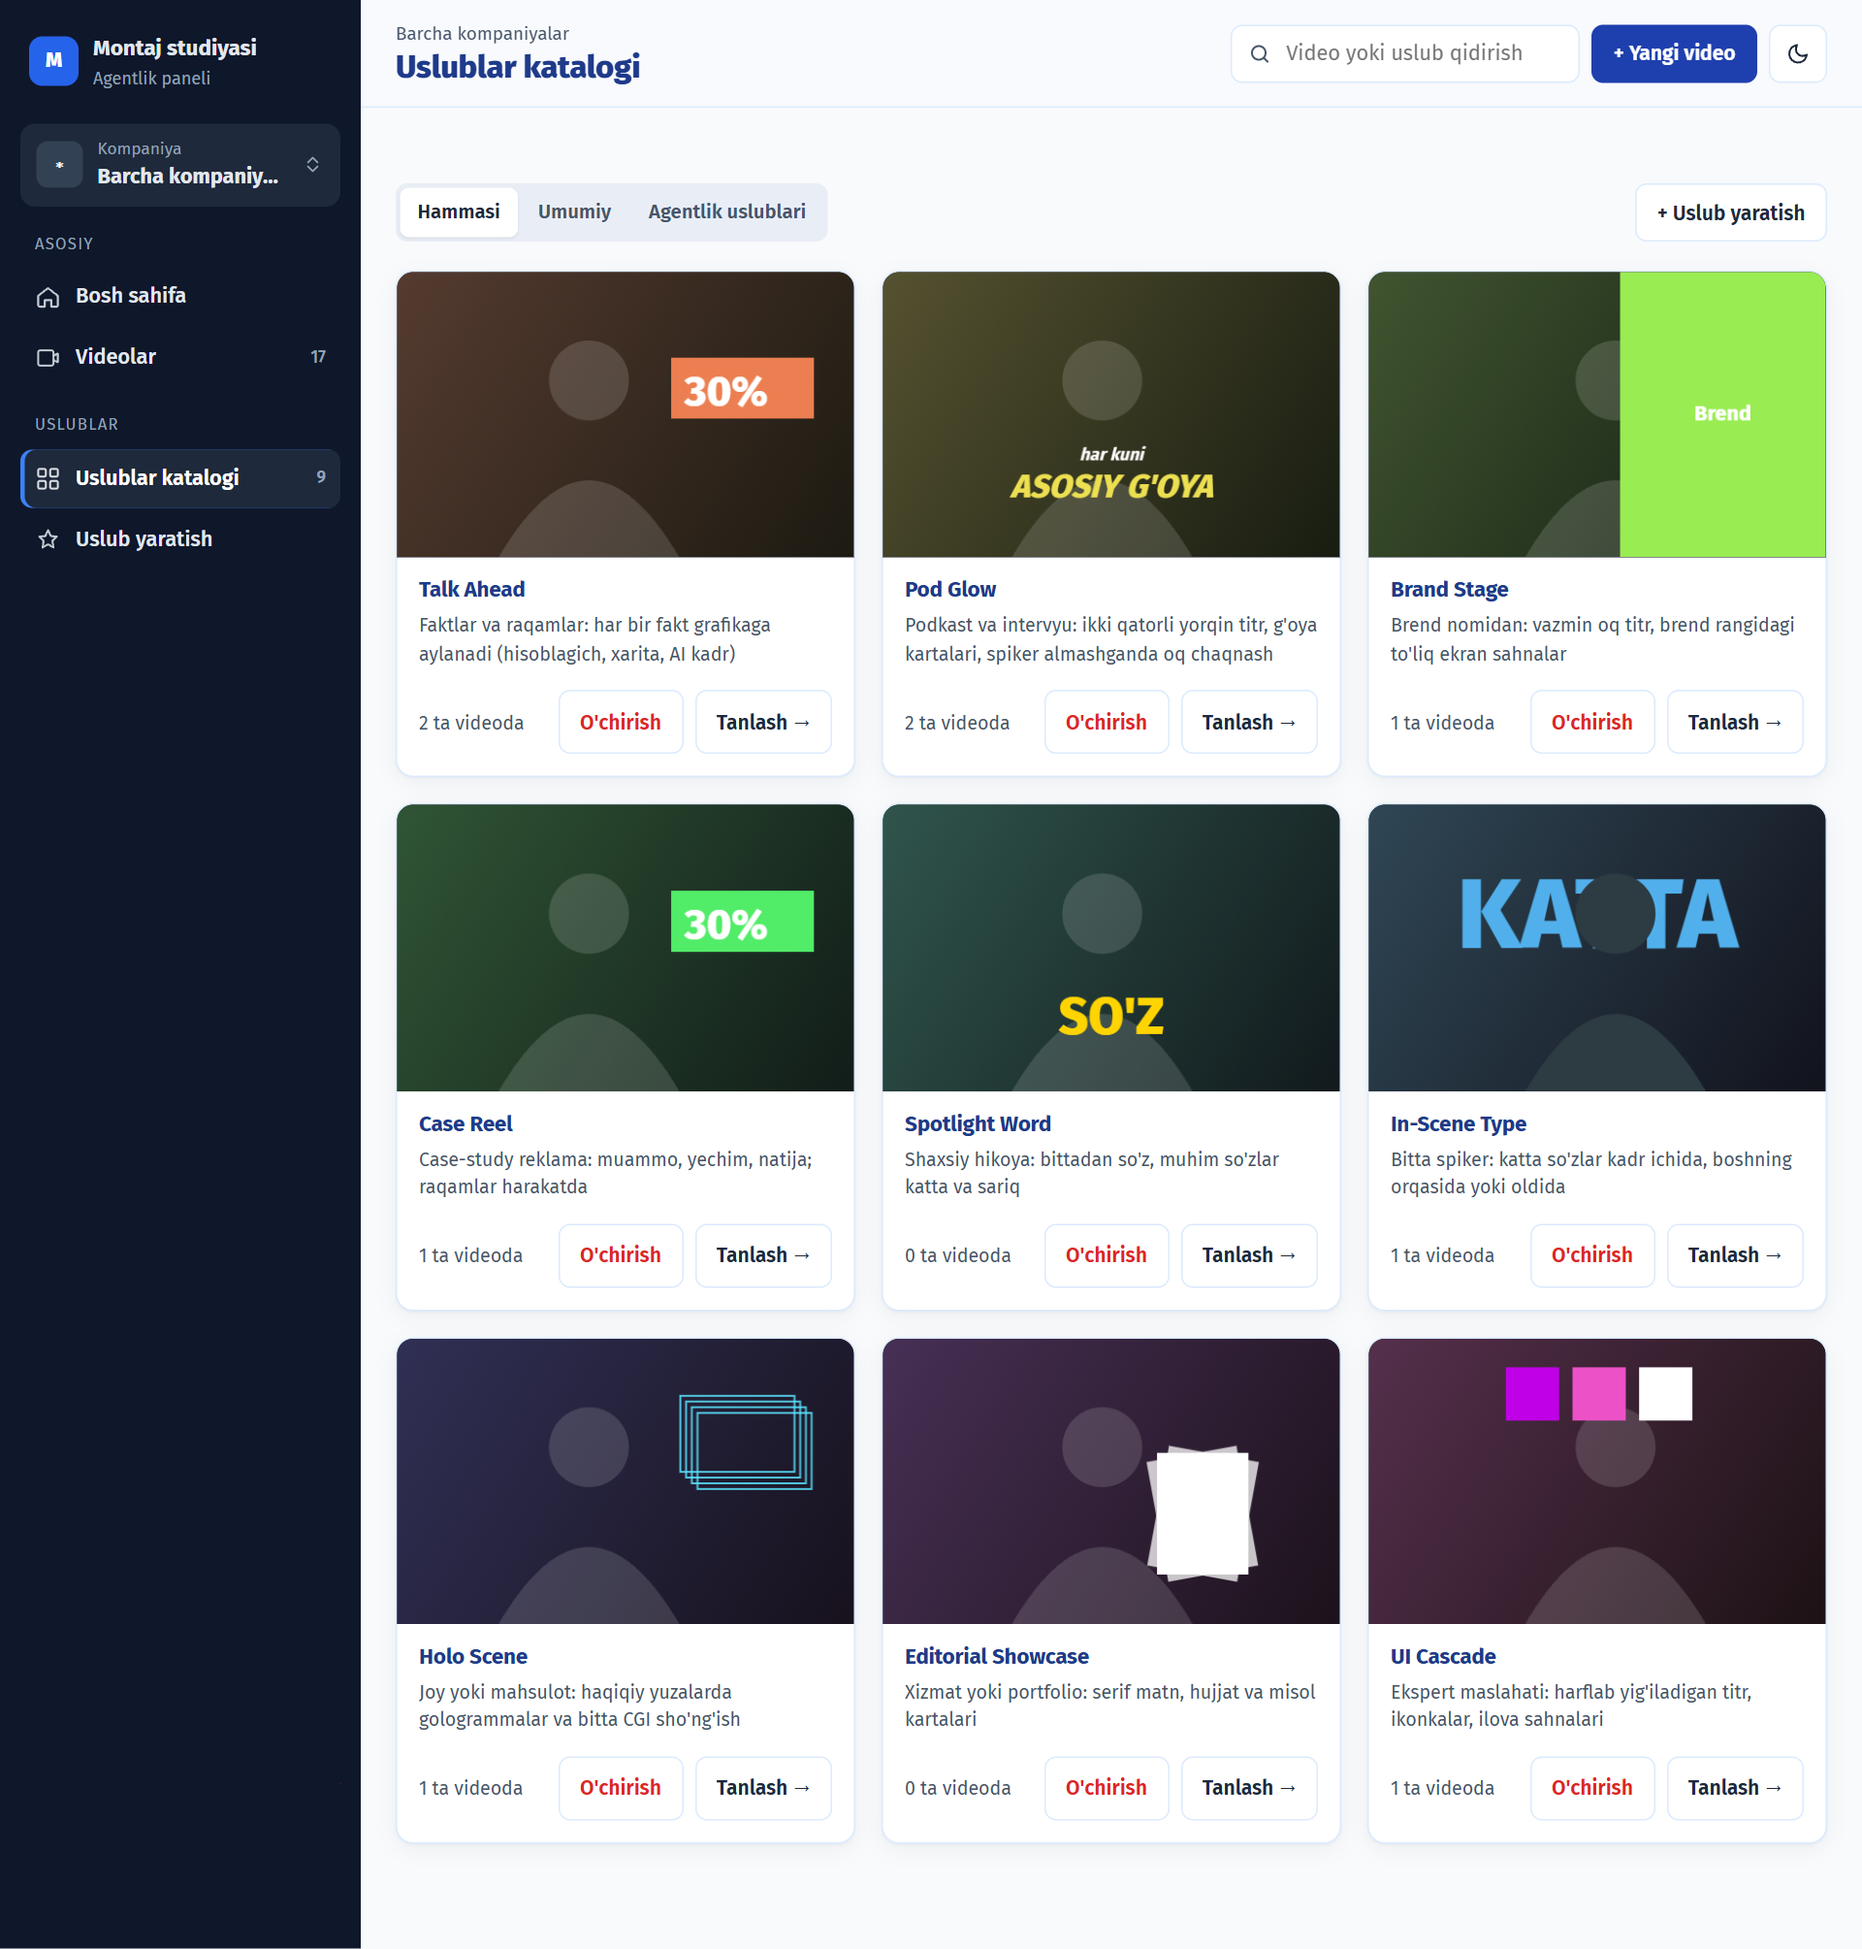
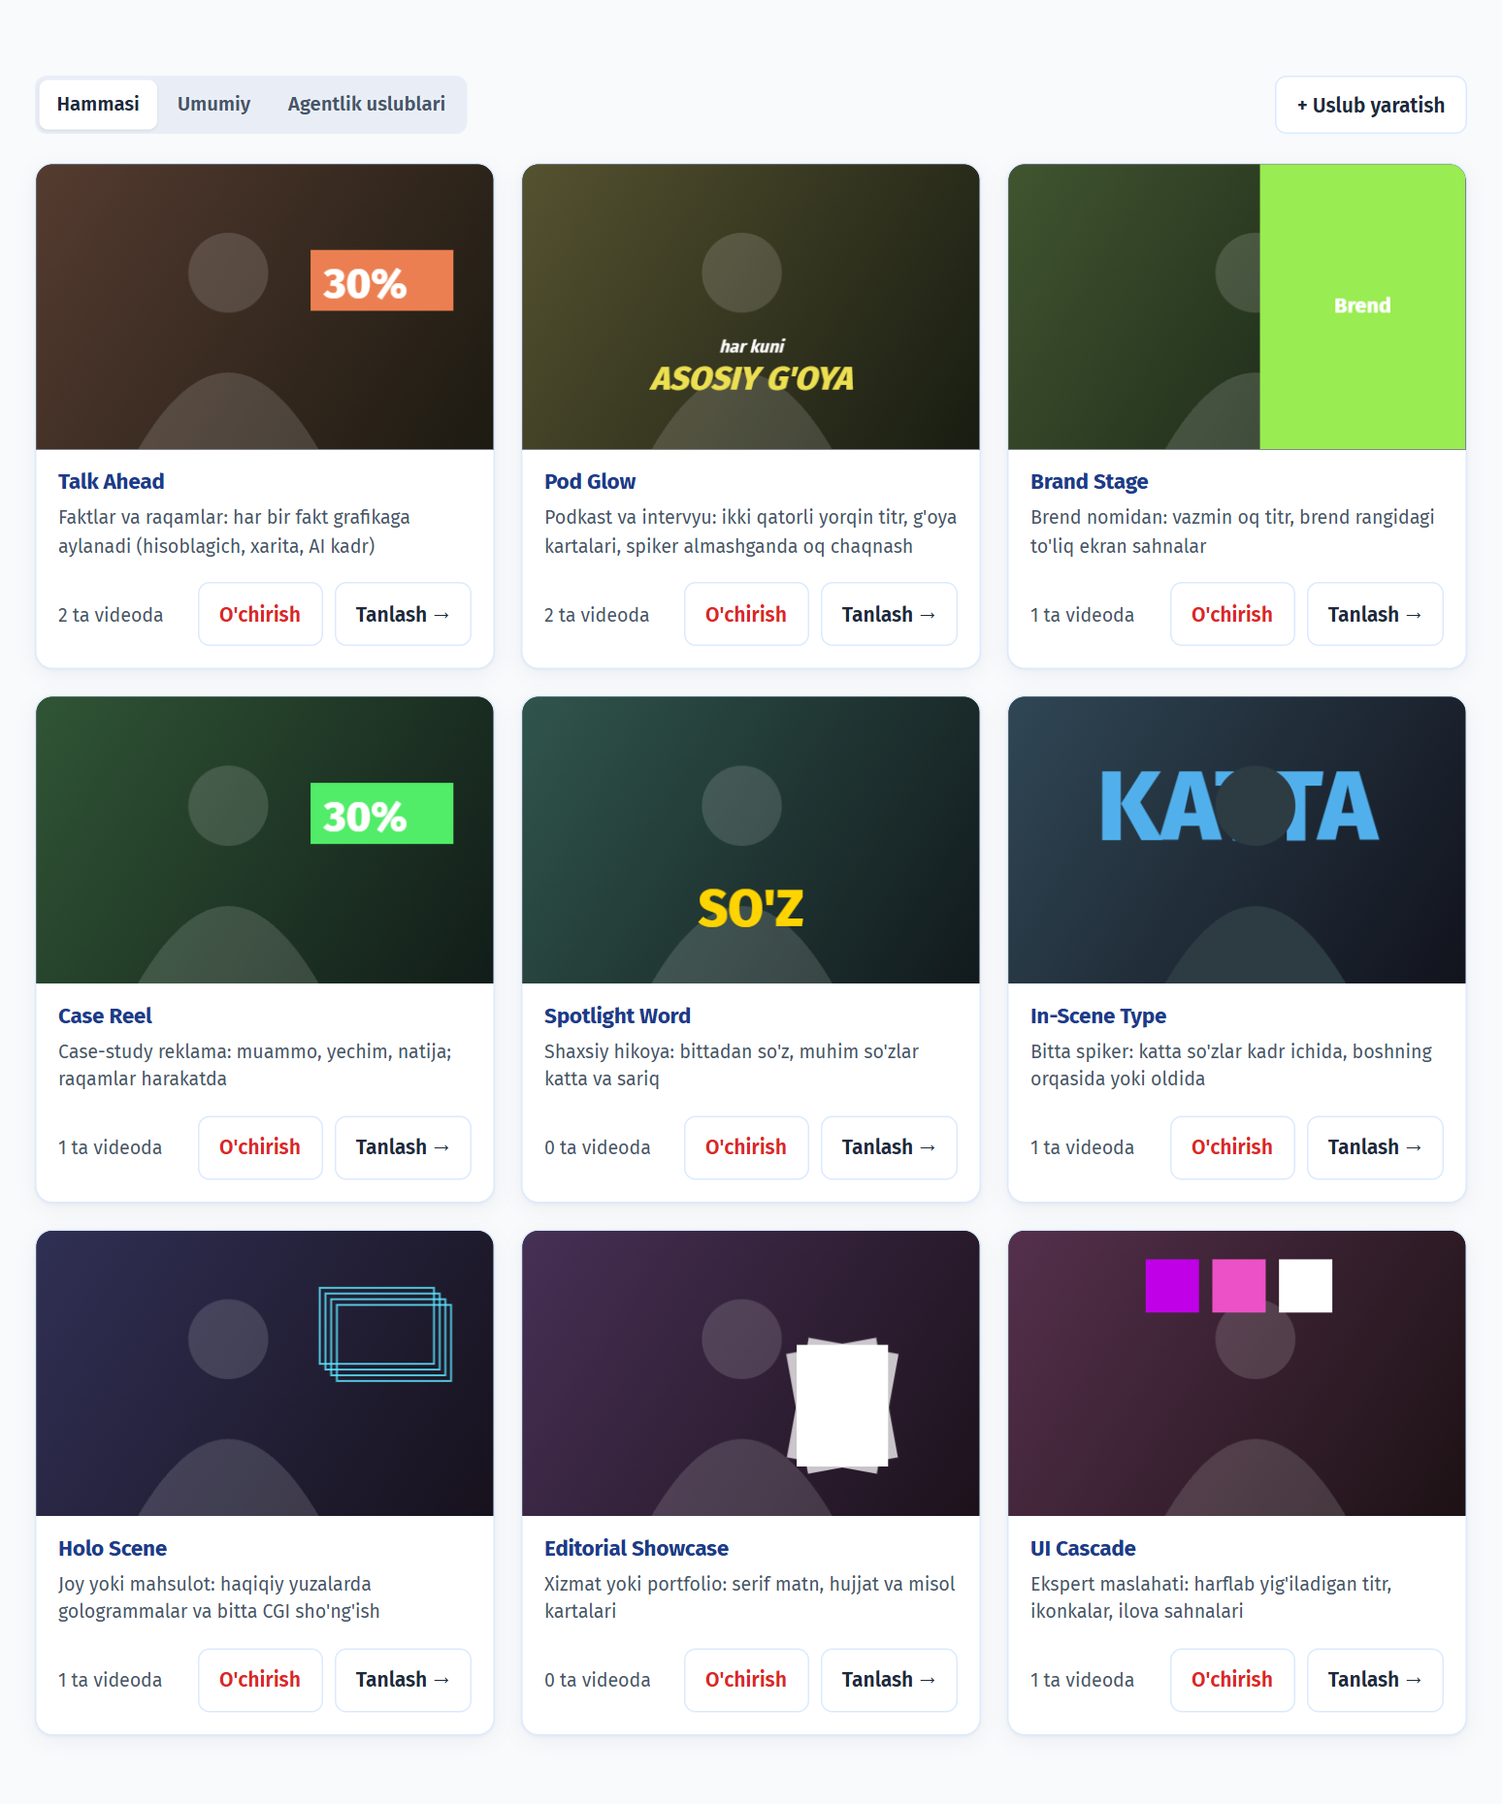
AP-1077: add a detailed visual walkthrough with readable UI close-ups

diff --git a/README.md b/README.md
@@ -12,43 +12,108 @@ Marketing agentliklari va kontent jamoalari uchun o'zbekcha AI video montaj dash
 
 ## Interfeysdan lavhalar
 
-Quyidagi skrinshotlar **2026-11-19** kuni joriy loyiha lokal ochilib, saqlangan haqiqiy ishlar bilan olingan. Yon paneldagi akkaunt balansi berkitilgan. Ko'rsatilgan natijalar shu ishlarga tegishli; yangi clone o'z ma'lumotlari bilan boshlanadi.
+**Material → format va uslub → limit → brief → montaj → tekshiruv → tuzatish.** Quyida har bir bosqichning yaqin ko'rinishi va undagi boshqaruvlar tushuntirilgan.
 
-<details>
-<summary><strong>1. Video topshirish — materiallar, format va uslub</strong></summary>
+[Materiallar](#1-materiallarni-topshirish) · [Format](#2-format-va-avtomatik-uslub) · [Byudjet](#3-montaj-byudjeti) · [Brief](#4-istaklar-va-referenslar) · [Katalog](#5-uslublar-katalogi) · [Natija](#6-tayyor-video-va-versiyalar) · [Hisobot](#7-vaqt-belgilari-bilan-montaj-hisoboti) · [QA](#8-sifat-tekshiruvi) · [Feedback](#9-vaqtga-boglangan-tuzatish)
 
-Raw videolar, rasm, logo va qo'shimcha materiallarni bir joydan yuklang. To'rtta formatdan birini tanlang; o'ngdagi xulosa tanlangan sozlamalar va Higgsfield limitini ko'rsatadi.
+Rasmlar **2026-11-19** kuni lokal interfeysdan olingan. Natija va hisobotlar saqlangan haqiqiy ishga tegishli. `$5` limiti, brief va feedback matnlari ko'rsatma uchun kiritilgan, yuborilmagan. Bosh sahifadagi akkaunt balansi berkitilgan. Rasmlarni bosib, to'liq o'lchamda ochish mumkin.
 
-![Yangi video formasi: yuklash maydoni, 9:16, 4:5, 1:1 va 16:9 formatlari, avtomatik uslub va xulosa](docs/images/new-edit.png)
+### 1. Materiallarni topshirish
 
-</details>
+**“Yangi video”** sahifasida asosiy video va montajga qo'shiladigan materiallar alohida maydonlarga beriladi.
 
-<details>
-<summary><strong>2. Uslublar katalogi — 9 xil vizual yo'nalish</strong></summary>
+![Kompaniya tanlash, bir nechta raw video yuklash, qo'shimcha rasm yoki logo biriktirish va ish nomini yozish maydonlari](docs/images/new-edit.png)
 
-Talk Ahead, Pod Glow, UI Cascade va boshqa uslublarning ko'rinishi hamda qo'llanishini solishtiring. Katalogdan uslub tanlash yoki referenslardan yangi uslub yaratish mumkin.
+- **Kompaniya:** ishlarni mijoz yoki jamoa bo'yicha guruhlash; “Kompaniyasiz” ham mumkin.
+- **Video:** bitta yoki bir nechta raw faylni tashlash yoxud bosib tanlash. Qisqa tomon kamida 720 px bo'lishi kerak.
+- **Qo'shimcha materiallar:** logo, mahsulot rasmi, B-roll va boshqa video. Fayl tanlangach, unga izoh va majburiy foydalanish belgisi qo'yish mumkin.
+- **Nomi:** ro'yxatda tez topish uchun tushunarli ish nomi.
 
-![To'qqizta uslub kartasi: Talk Ahead, Pod Glow, Brand Stage, Case Reel, Spotlight Word, In-Scene Type, Holo Scene, Editorial Showcase va UI Cascade](docs/images/style-catalogue.png)
+### 2. Format va avtomatik uslub
 
-</details>
+Format kartasi chiqadigan videoning nisbatini ham, o'lchamini ham belgilaydi. Rasmda **9:16 — 1080×1920** tanlangan.
 
-<details>
-<summary><strong>3. Tayyor natija — video, versiyalar va vaqtli hisobot</strong></summary>
+![To'rtta format kartasi va avtomatik uslub tanlovi yaqindan: 9:16, 4:5, 1:1 va 16:9](docs/images/format-style.png)
 
-Haqiqiy **UI Cascade** montajidan kadr: **v1 → v2 → v3** versiyalari, yuklab olish tugmasi va vaqt belgilari bilan “Nima qilindi” ro'yxati. Hisobotdagi vaqtni bosib, videoning o'sha joyiga o'tish mumkin.
+**Avtomatik** tanlovda agent raw video, referens va istaklarga qarab uslub tanlaydi. Aniq vizual yo'nalish kerak bo'lsa, **“Uslubni o'zgartirish”** orqali katalogdagi variantni belgilang. Formatlarning qo'llanishi har bir kartaning o'zida yozilgan.
 
-![Tayyor vertikal video, uchta versiya va montajdagi o'zgarishlarning vaqtli hisoboti](docs/images/edit-result.png)
+### 3. Montaj byudjeti
 
-</details>
+**Minimal**, **Standart** yoki **Boy** darajasi montaj imkoniyatlari va Higgsfield kredit chegarasini birga belgilaydi. Mustaqil dollar limiti ham berish mumkin.
 
-<details>
-<summary><strong>4. Sifat tekshiruvi — natijaning texnik hisoboti</strong></summary>
+![Montaj darajalari va qo'lda kiritilgan 5 dollar: interfeys 90 kredit hisoblab, daraja tanlanmaganini ko'rsatmoqda](docs/images/budget-limit.png)
 
-Shu ishning joriy versiyasi **17/17** tekshiruvdan o'tgan. Panel format, ovoz, qora yoki qotgan kadrlar, titr sinxroni, matn joylashuvi va dizayn izchilligini ko'rsatadi.
+Rasmdagi misol: **`$5 × 18 = 90 kredit`**. Dollar yozilganda daraja tanlovi tozalanadi; “Boy” darajasining 60 kredit chegarasi bu limitni kesmaydi. Pastdagi xabar hisoblangan limitni darhol ko'rsatadi. **Claude xarajati alohida.** Hisoblash qoidalari: [Format va xarajat](#format-va-xarajat).
 
-<img src="docs/images/quality-checks.png" alt="Tekshiruv paneli: 17 ta tekshiruv o'tgan, jumladan 1080×1920, 30 fps, −14.1 LUFS va titr sinxroni" width="640">
+### 4. Istaklar va referenslar
 
-</details>
+Brief'da natijaning ko'rinishi va kerakli cheklovlarni yozing: til, rang, titr, o'tishlar, logo va ovoz bo'yicha aniq istaklar.
+
+![Istaklar maydonida o'zbekcha brief namunasi, matnli hujjat va referens video biriktirish maydonlari](docs/images/edit-brief.png)
+
+- **Istaklar:** rasmda yashil urg'u rangi, o'zbekcha titr, sokin o'tish va aniq ovoz so'ralgan.
+- **Fayllar:** batafsil brief yoki brend ko'rsatmalarini `.md` / `.txt` orqali berish.
+- **Yoqqan videolar:** referenslar qo'shish. Referens tanlangach, unda aynan nima yoqqanini yozadigan qo'shimcha maydon ochiladi.
+
+### 5. Uslublar katalogi
+
+Har bir kartada uslubning vizual namunasi, nimaga mosligi, ishlatilgan videolar soni va **“Tanlash”** tugmasi bor. Filtrlar umumiy hamda agentlik uslublarini ajratadi.
+
+![Uslublar katalogi yaqindan: barcha to'qqiz uslubning namunalari, izohlari va tanlash tugmalari](docs/images/style-catalogue.png)
+
+Masalan, **Talk Ahead** fakt va raqamlarga, **Pod Glow** podkastga, **UI Cascade** ekspert maslahati va ilova ko'rinishidagi sahnalarga mos. **“Uslub yaratish”** orqali kamida ikki referens asosida yangi yo'nalish yaratish mumkin. To'liq tavsiflar: [Montaj uslublari](#montaj-uslublari).
+
+### 6. Tayyor video va versiyalar
+
+Quyida haqiqiy **UI Cascade** montajining uchinchi versiyasi. Videodagi titr va “Keling” grafikasi tayyor natijaning o'zidan ko'rinmoqda.
+
+<a href="docs/images/edit-result.png"><img src="docs/images/edit-result.png" alt="Tayyor video yaqindan: UI Cascade, 9:16, QA 17/17, v1-v3 versiyalari va yuklab olish tugmasi" width="640"></a>
+
+| Boshqaruv | Nima ko'rsatadi yoki bajaradi |
+|---|---|
+| `Tayyor`, `Tuzatish 2` | Ish holati va bajarilgan tuzatish raqami |
+| `UI Cascade · Boy · 9:16` | Shu ishning uslubi, darajasi va formati |
+| `QA 17/17` | Joriy natijaning sifat tekshiruvi xulosasi |
+| `v1`, `v2`, `v3` | Oldingi yoki joriy videoni ochish; rasmda `v3` tanlangan |
+| Video pleyeri | Ko'rish, to'xtatish va kerakli vaqtga o'tish |
+| `v3 ni yuklab olish` | Tanlangan versiyani fayl sifatida olish |
+
+### 7. Vaqt belgilari bilan montaj hisoboti
+
+**“Nima qilindi”** paneli montaj qarorlarini videodagi vaqt va aytilgan gap bilan bog'laydi. Har bir qatorni bosish pleyerni tegishli joydan ishga tushiradi.
+
+<a href="docs/images/edit-timeline.png"><img src="docs/images/edit-timeline.png" alt="Nima qilindi paneli to'liq: 0:00 dagi titrdan 1:08 dagi yakungacha o'nta hodisa va umumiy montaj izohi" width="640"></a>
+
+Bu misolda **0:03** da “Keling” tugmasi, **0:30** da qadamli ilova sahnasi, **1:07** da AI video lavha qayd etilgan. Pastdagi umumiy izoh butun video bo'ylab ishlatilgan titr, rang, o'tish, musiqa va ovoz yechimini tushuntiradi.
+
+### 8. Sifat tekshiruvi
+
+**“Tekshiruv”** paneli texnik QA natijasini bandma-band ochadi. Shu ishning joriy versiyasi **17/17** tekshiruvdan o'tgan.
+
+<a href="docs/images/quality-checks.png"><img src="docs/images/quality-checks.png" alt="17 ta sifat tekshiruvi to'liq: format, ovoz, jonli yakun, qora va qotgan kadrlar, titr sinxroni, platforma zonalari va dizayn" width="640"></a>
+
+| Tekshiruv guruhi | Rasmdagi dalil |
+|---|---|
+| Video va audio | 1080×1920, 30 fps, H.264 + AAC; −14.1 LUFS, true peak −1.2 dBTP |
+| Kadrlar | Qora kadr yo'q, 3 soniyadan uzun qotish yo'q, yakun jonli |
+| Titr | So'zlar tovushga mos; juda qisqa yoki kadrdan chiqib ketgan matn yo'q |
+| Joylashuv | Matn platforma tugmalari va izoh zonasiga tushmagan |
+| Dizayn va hisobot | Titr/karta/grafika izchilligi, g'oyalar va hisobot mosligi |
+
+### 9. Vaqtga bog'langan tuzatish
+
+Natijani ko'rayotib kerakli kadrda to'xtating. **“Vaqtni qo'shish”** tugmasi o'sha vaqtni feedback maydoniga kiritadi; keyin aynan nima o'zgarishini yozing.
+
+![Feedback formasi yaqindan: 0:04.0 vaqt belgisi, kalit so'zni kattalashtirish misoli, fayl biriktirish, limit va yuborish tugmasi](docs/images/edit-feedback.png)
+
+1. Videoda tuzatish kerak bo'lgan joyni toping va vaqt belgisini qo'shing.
+2. So'rovni aniq yozing. Rasmda kalit so'zni kattalashtirib, yashil rangni saqlash so'ralgan.
+3. Zarur bo'lsa rasm, video, hujjat yoki musiqa biriktiring; pastda tuzatish limiti ko'rinadi.
+4. **“Yuborish”** tuzatishni boshlaydi. Oldingi natija versiya sifatida saqlanadi.
+
+*Rasmdagi feedback — yuborilmagan namuna.*
+
+[↑ Qo'llanma boshiga](#interfeysdan-lavhalar) · [Lokal ishga tushirish →](#ishga-tushirish)
 
 ## Imkoniyatlar
 
